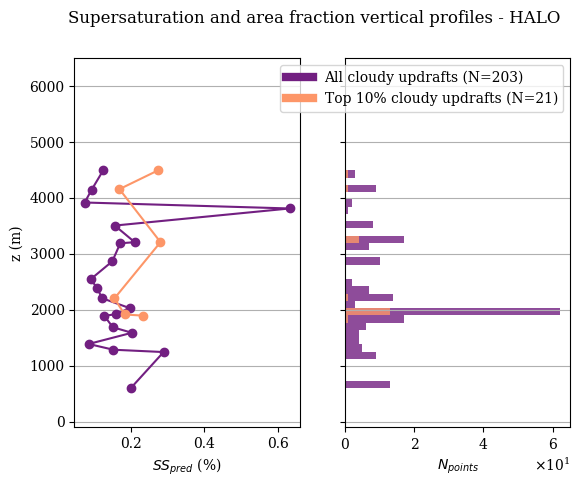
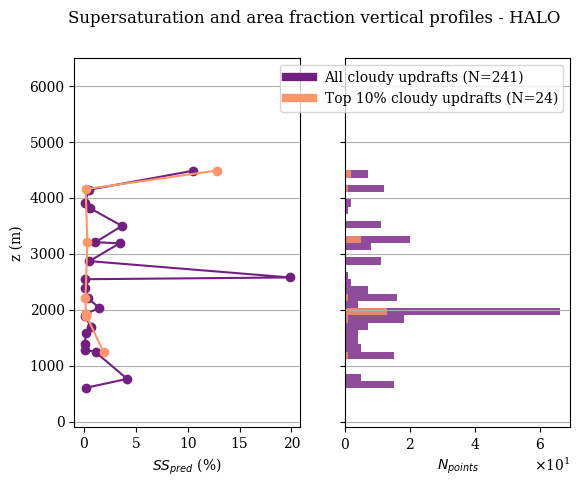
more lwc stuff again

diff --git a/src/halo/ss_functions.py b/src/halo/ss_functions.py
@@ -130,6 +130,7 @@ def get_meanr_vs_t_from_cas_and_cip(adlr_dict, cas_dict, cip_dict, \
                     change_cas_corr, cutoff_bins, incl_rain, incl_vent)
 
     meanr_sum = np.zeros(np.shape(cas_dict['data']['time']))
+    print(np.shape(meanr_sum))
 
     for var_name in cas_dict['data'].keys():
         meanr_sum += get_meanr_contribution_from_cas_var(var_name, \
@@ -277,15 +278,11 @@ def get_meanr_contribution_from_cas_var(var_name, adlr_dict, cas_dict, \
     N_Bo_div_r2 = g*rho_w/sigma #pr&kl p 418
     N_P = sigma**3.*rho_air**2./(eta**4.*g*rho_w) #pr&kl p 418
 
-    u_termbad, u_termgood = get_u_term(r, eta, N_Be_div_r3, N_Bo_div_r2, \
+    u_term = get_u_term(r, eta, N_Be_div_r3, N_Bo_div_r2, \
                             N_P, pres, rho_air, temp)
-    N_Re = 2*rho_air*r*u_termgood/eta
-    N_Rebad = 2*rho_air*r*u_termbad/eta
+    N_Re = 2*rho_air*r*u_term/eta
 
     f = get_ventilation_coefficient(N_Re, incl_vent)
-    fbad = get_ventilation_coefficient(N_Rebad, incl_vent)
-    print('good', f)
-    print('bad', fbad)
 
     nconc_contribution_from_var = get_nconc_contribution_from_cas_var( \
         var_name, adlr_dict, cas_dict, change_cas_corr, cutoff_bins, \
@@ -446,23 +443,20 @@ def get_u_term(r, eta, N_Be_div_r3, N_Bo_div_r2, N_P, pres, rho_air, temp):
     """
     if r <= 10.e-6:
         lam = 6.6e-8*(10132.5/pres)*(temp/293.15)
-        u_termbad = (1 + 1.26*lam/r)*(2*r**2.*g*rho_w/9*eta)
-        u_termgood = (1 + 1.26*lam/r)*(2*r**2.*g*rho_w/(9*eta))
+        u_term = (1 + 1.26*lam/r)*(2*r**2.*g*rho_w/(9*eta))
     elif r <= 535.e-6:
         N_Be = N_Be_div_r3*r**3.
         X = np.log(N_Be)
         N_Re = np.exp(sum([N_Re_regime2_coeffs[i]*X**i for i in \
                         range(len(N_Re_regime2_coeffs))]))
-        u_termbad = eta*N_Re/(2*rho_air*r)
-        u_termgood = eta*N_Re/(2*rho_air*r)
+        u_term = eta*N_Re/(2*rho_air*r)
     else:
         N_Bo = N_Bo_div_r2*r**2.
         X = np.log(16./3.*N_Bo*N_P**(1./6.))
         N_Re = N_P**(1./6.)*np.exp(sum([N_Re_regime3_coeffs[i]*X**i for i in \
                                     range(len(N_Re_regime3_coeffs))]))
-        u_termbad = eta*N_Re/(2*rho_air*r)
-        u_termgood = eta*N_Re/(2*rho_air*r)
-    return u_termbad, u_termgood
+        u_term = eta*N_Re/(2*rho_air*r)
+    return u_term
 
 def get_dyn_visc(temp):
     """
@@ -595,19 +589,54 @@ def get_lwc_from_cas(cas_dict, change_cas_corr, cutoff_bins):
 
     return lwc
 
-def get_lwc_from_cas_and_cip(cas_dict, cip_dict, change_cas_corr, cutoff_bins):
+def get_lwc_from_cas_and_cip(adlr_dict, cas_dict, cip_dict, change_cas_corr, cutoff_bins):
 
-    lwc_var_keys = ['lwc_5um_to_25um_diam', 'lwc_above_25um_diam']
-    if not cutoff_bins:
-        lwc_var_keys.append('lwc_sub_5um_diam')
-    if change_cas_corr:
-        lwc_var_keys = [lwc_var_key+'_corr' for lwc_var_key in lwc_var_keys]
+    lwc_cas = get_lwc_from_cas(cas_dict, change_cas_corr, cutoff_bins)
+    
+    #the rest is a bit brute force / ad hoc because there's only two \
+    #bins to use from the cip data and both need to get truncated.
+    cip_nconc_1 = get_cip_nconc_1(cas_dict, cip_dict, change_cas_corr)
+    cip_radius_1 = (CAS_bin_radii[-1] + CIP_bin_radii[1])/2.
+    print(cip_radius_1)
+    cip_nconc_2 = get_cip_nconc_2(cip_dict)
+    cip_radius_2 = (CIP_bin_radii[1] + 51e-6)/2.
+    print(cip_radius_2)
 
-    lwc = np.zeros(np.shape(cas_dict['data']['time']))
-    for lwc_var_key in lwc_var_keys:
-        lwc += cas_dict['data'][lwc_var_key]
+    rho_air = adlr_dict['data']['pres']/(R_a*adlr_dict['data']['temp'])
 
-    return lwc
+    lwc_cip = 4./3.*np.pi*rho_w/rho_air*(cip_nconc_1*cip_radius_1**3. + \
+                                            cip_nconc_2*cip_radius_2**3.)
+    return lwc_cas + lwc_cip
+
+def get_cip_nconc_1(cas_dict, cip_dict, change_cas_corr):
+
+    cas_nconc_above_25um_diam = np.zeros( \
+        np.shape(cas_dict['data']['time']))
+
+    for i in range(12, 17):
+        bin_ind = i - 5
+        var_key = 'nconc_' + str(i)
+        if change_cas_corr:
+            var_key += '_corr'
+        cas_nconc_above_25um_diam += \
+                cas_dict['data'][var_key]*CAS_bin_radii[bin_ind]**3.
+
+    cip_nconc_1 = cip_dict['data']['nconc_1'] - cas_nconc_above_25um_diam
+
+    num_below_zero = np.sum(cip_nconc_1 < 0)
+    if num_below_zero > 0:
+        print(str(num_below_zero) + ' below zero')
+        print(np.shape(cip_nconc_1))
+
+    return cip_nconc_1 
+
+def get_cip_nconc_2(cip_dict):
+
+    new_bin_2_width = (51e-6 - CIP_bin_radii[1])
+    old_bin_2_width = (CIP_bin_radii[2] - CIP_bin_radii[1])
+    bin_2_width_fraction = new_bin_2_width/old_bin_2_width
+
+    return bin_2_width_fraction*cip_dict['data']['nconc_2']
 
 def get_lwc_from_cdp(cdp_dict, cutoff_bins):
 

diff --git a/src/halo/compare_lwcs_figsrc.py b/src/halo/compare_lwcs_figsrc.py
@@ -1,0 +1,77 @@
+"""
+make and save histograms showing SS_QSS distribution from HALO CAS measurements
+"""
+import matplotlib
+import matplotlib.pyplot as plt
+from matplotlib import cm
+from matplotlib import ticker
+from matplotlib.lines import Line2D
+import numpy as np
+
+from halo import DATA_DIR, FIG_DIR
+from halo.ss_functions import get_lwc_from_cas, get_lwc_from_cas_and_cip
+
+#for plotting
+matplotlib.rcParams.update({'font.family': 'serif'})
+colors_arr = cm.get_cmap('magma', 10).colors
+colors_dict ={'allpts': colors_arr[3], 'up10perc': colors_arr[7]}
+
+change_cas_corr = True
+cutoff_bins = True
+incl_rain = True 
+incl_vent = True
+full_ss = True
+
+def main():
+    
+    with open('good_dates.txt', 'r') as readFile:
+        good_dates = [line.strip() for line in readFile.readlines()]
+
+    lwc_cas_alldates = None
+    lwc_cas_and_cip_alldates = None
+
+    for date in good_dates:
+        lwc_cas, lwc_cas_and_cip = get_lwc_data(date)
+        lwc_cas_alldates = add_to_alldates_array(lwc_cas, lwc_cas_alldates)
+        lwc_cas_and_cip_alldates = add_to_alldates_array(lwc_cas_and_cip, \
+                                                    lwc_cas_and_cip_alldates)
+
+    make_and_save_lwc_scatter(lwc_cas_alldates, lwc_cas_and_cip_alldates)
+
+def add_to_alldates_array(lwc, lwc_alldates):
+
+    if lwc_alldates is None:
+        return lwc
+    else:
+        return np.concatenate((lwc_alldates, lwc))
+
+def get_lwc_data(date):
+
+    adlrfile = DATA_DIR + 'npy_proc/ADLR_' + date + '.npy'
+    adlr_dict = np.load(adlrfile, allow_pickle=True).item()
+    casfile = DATA_DIR + 'npy_proc/CAS_' + date + '.npy'
+    cas_dict = np.load(casfile, allow_pickle=True).item()
+    cipfile = DATA_DIR + 'npy_proc/CIP_' + date + '.npy'
+    cip_dict = np.load(cipfile, allow_pickle=True).item()
+
+    lwc_cas = get_lwc_from_cas(cas_dict, change_cas_corr, cutoff_bins)
+    lwc_cas_and_cip = get_lwc_from_cas_and_cip(adlr_dict, cas_dict, cip_dict, \
+                                                change_cas_corr, cutoff_bins)
+
+    return lwc_cas, lwc_cas_and_cip 
+
+def make_and_save_lwc_scatter(lwc_cas, lwc_cas_and_cip):
+
+    fig, ax = plt.subplots()
+
+    ax.scatter(lwc_cas, lwc_cas_and_cip)
+    ax.set_xlabel('LWC from CAS (kg/kg)')
+    ax.set_ylabel('LWC from CAS and CIP (kg/kg)')
+
+    fig.suptitle('LWC values - HALO')
+
+    outfile = FIG_DIR + 'compare_lwcs_figure.png'
+    plt.savefig(outfile, bbox_inches='tight')
+    plt.close(fig=fig)    
+if __name__ == "__main__":
+    main()

diff --git a/src/halo/ss_pred_vs_z_figsrc.py b/src/halo/ss_pred_vs_z_figsrc.py
@@ -9,7 +9,8 @@ from matplotlib.lines import Line2D
 import numpy as np
 
 from halo import DATA_DIR, FIG_DIR
-from halo.ss_functions import get_ss_vs_t_cas, get_lwc_from_cas
+from halo.ss_functions import get_ss_vs_t_cas, get_lwc_from_cas, \
+                                get_lwc_from_cas_and_cip
 
 #for plotting
 matplotlib.rcParams.update({'font.family': 'serif'})
@@ -84,7 +85,10 @@ def get_ss_pred_and_w_and_z_data(date):
     cipfile = DATA_DIR + 'npy_proc/CIP_' + date + '.npy'
     cip_dict = np.load(cipfile, allow_pickle=True).item()
 
-    lwc = get_lwc_from_cas(cas_dict, change_cas_corr, cutoff_bins)
+    #lwc = get_lwc_from_cas(cas_dict, change_cas_corr, cutoff_bins)
+    lwc = get_lwc_from_cas_and_cip(adlr_dict, cas_dict, cip_dict, \
+                                        change_cas_corr, cutoff_bins)
+    print('one')
     temp = adlr_dict['data']['temp']
     w = adlr_dict['data']['w']
     z = adlr_dict['data']['alt']
